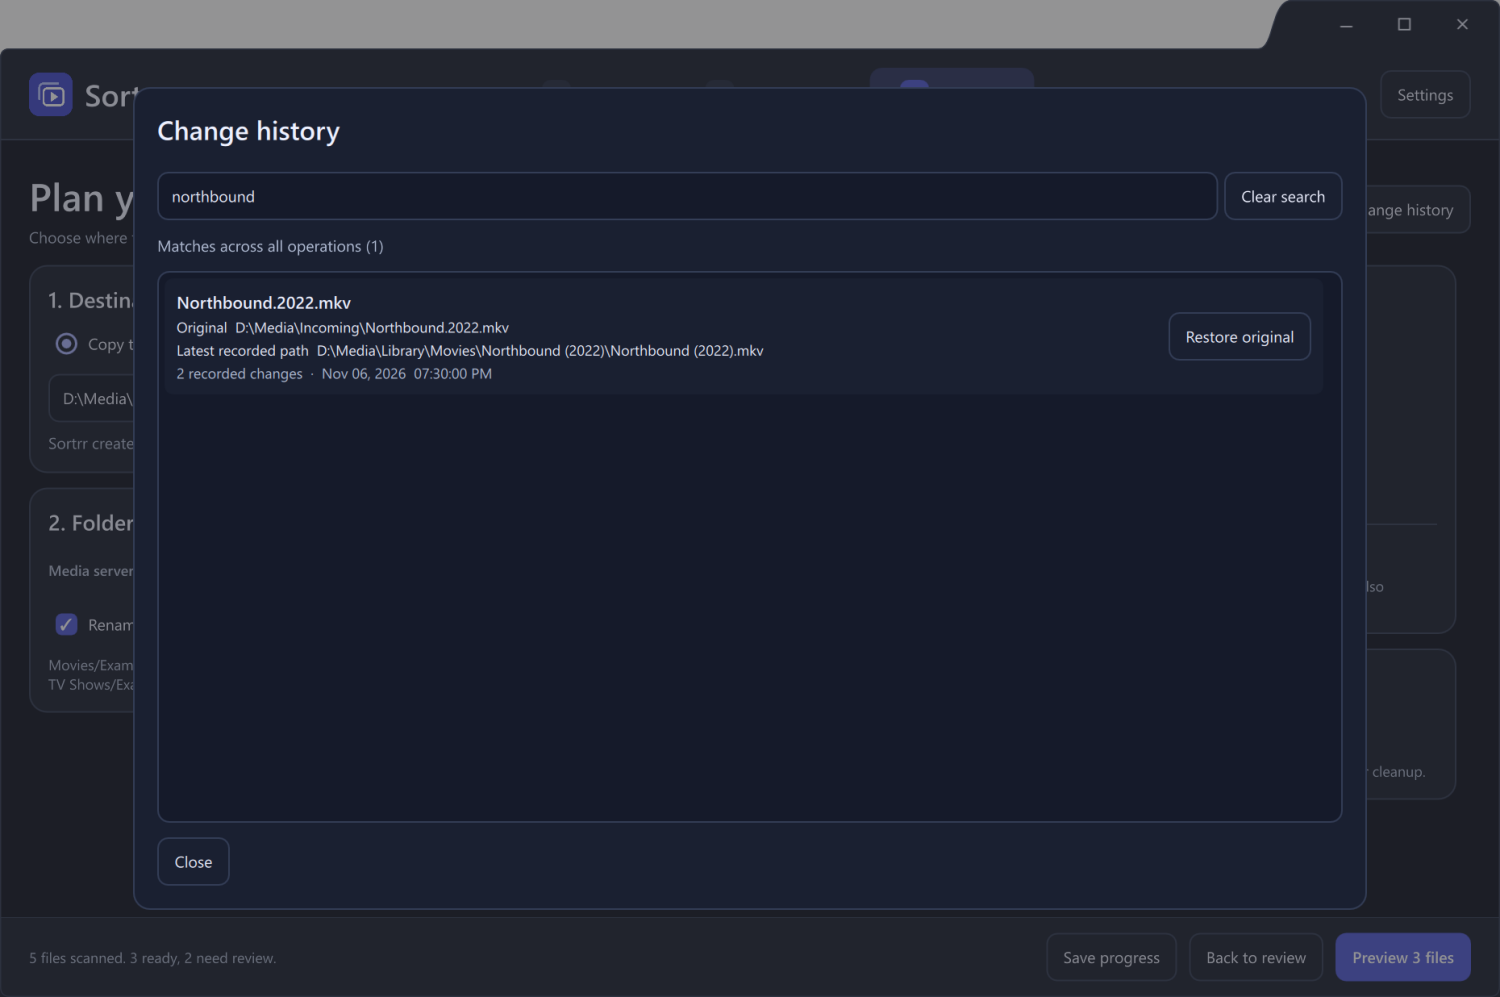
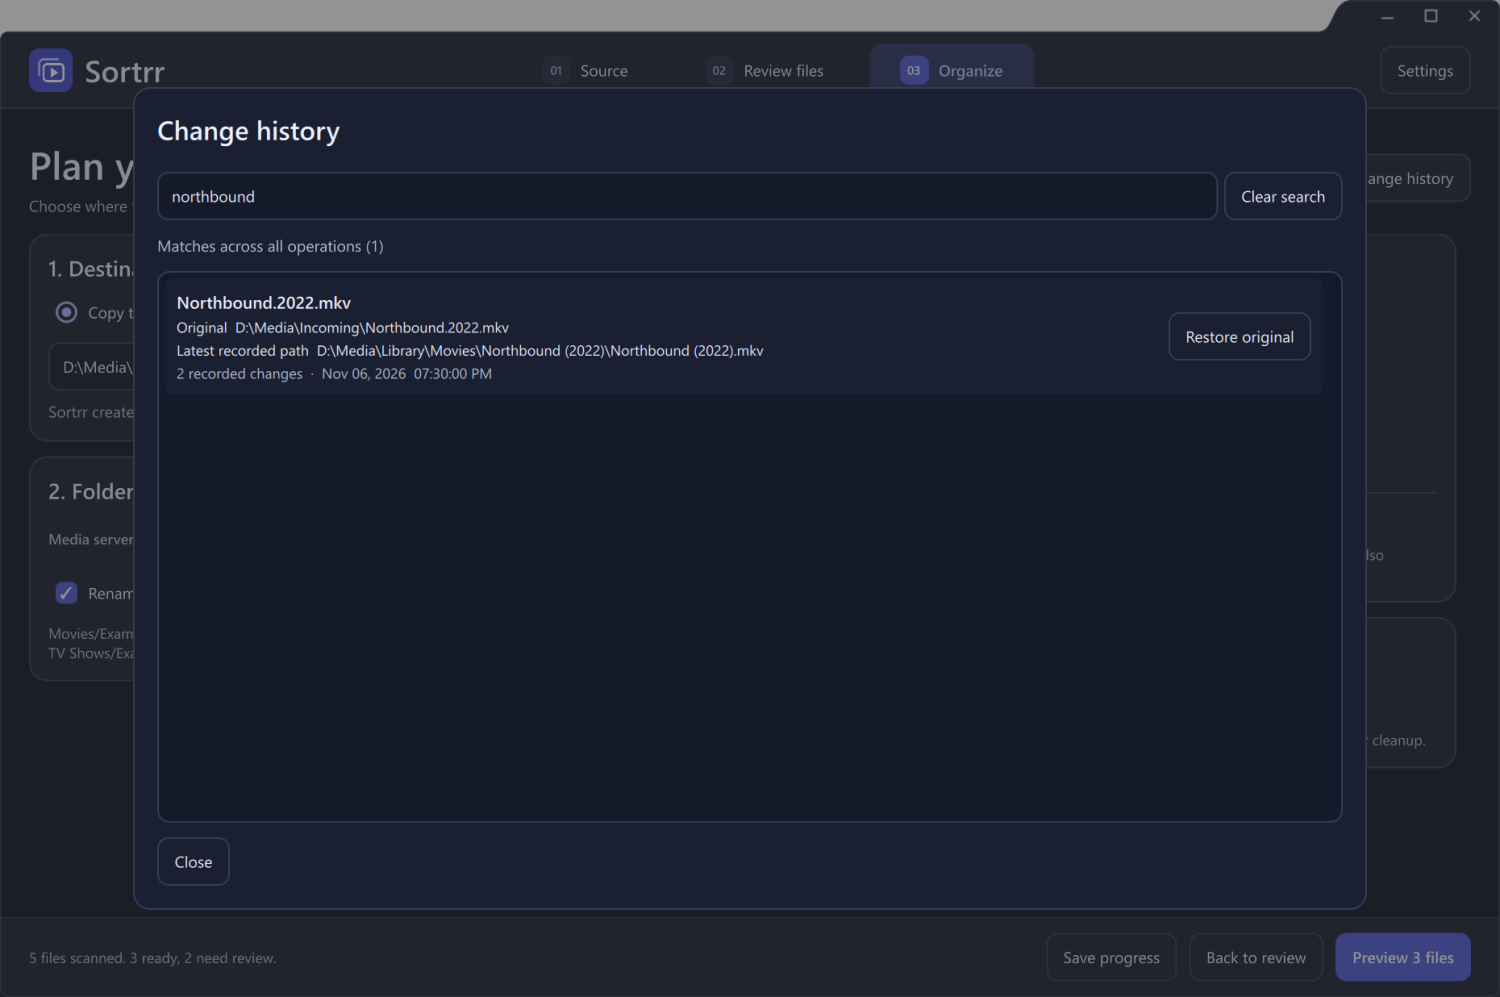
Refine compact caption tab and antialiased window edges

diff --git a/ui/SettingsWindow.qml b/ui/SettingsWindow.qml
@@ -54,7 +54,7 @@ ApplicationWindow {
 
     Rectangle {
         anchors.left: parent.left; anchors.right: parent.right; anchors.bottom: parent.bottom
-        anchors.top: parent.top; anchors.topMargin: 48
+        anchors.top: parent.top; anchors.topMargin: 34
         color: Theme.canvas
         radius: 8
         z: -1
@@ -68,7 +68,7 @@ ApplicationWindow {
             id: settingsChrome
             objectName: "settingsTitleBar"
             Layout.fillWidth: true
-            implicitHeight: 128
+            implicitHeight: 98
             targetWindow: settings
             allowMinimize: false
             allowMaximize: false
@@ -185,7 +185,7 @@ ApplicationWindow {
                         }
                         ActionButton {
                             objectName: "checkUpdatesButton"
-                            text: settings.update.status === "checking" ? "Checkingâ€¦" : "Check for updates"
+                            text: settings.update.status === "checking" ? "CheckingÃ¢â‚¬Â¦" : "Check for updates"
                             enabled: !settings.backend.state.busy && !settings.updating
                             onClicked: settings.backend.checkForUpdates()
                         }
@@ -230,7 +230,7 @@ ApplicationWindow {
                         SettingTitle { text: "Cache storage" }
                         Label {
                             objectName: "cacheSizeText"
-                            text: settings.cache.measuring ? "Calculatingâ€¦" : settings.cache.size
+                            text: settings.cache.measuring ? "CalculatingÃ¢â‚¬Â¦" : settings.cache.size
                             color: Theme.ink; font.pixelSize: 16; font.weight: Font.DemiBold
                         }
                         ActionButton {
@@ -252,7 +252,7 @@ ApplicationWindow {
                         Layout.fillWidth: true; spacing: 8
                         ActionButton {
                             objectName: "changeCacheDirectoryButton"
-                            text: settings.cache.moving ? "Moving cacheâ€¦" : "Change folder"
+                            text: settings.cache.moving ? "Moving cacheÃ¢â‚¬Â¦" : "Change folder"
                             enabled: !settings.backend.state.busy
                             onClicked: settings.backend.chooseCacheDirectory()
                         }

diff --git a/ui/TitleBar.qml b/ui/TitleBar.qml
@@ -11,13 +11,14 @@ Item {
     property bool allowMaximize: true
     property bool closeEnabled: true
     readonly property bool maximized: targetWindow.visibility === Window.Maximized
-    property int tabHeight: 40
-    readonly property int tabWidth: windowButtons.width + 40
-    implicitHeight: 116
+    property int tabHeight: 26
+    readonly property int tabWidth: windowButtons.width + 26
+    implicitHeight: 90
 
     onTabWidthChanged: headerSurface.requestPaint()
     Canvas {
         id: headerSurface
+        antialiasing: true
         anchors.fill: parent
         onWidthChanged: requestPaint()
         onHeightChanged: requestPaint()
@@ -82,13 +83,13 @@ Item {
     component WindowButton: Button {
         id: control
         required property string windowAction
-        implicitWidth: 46
-        implicitHeight: 30
+        implicitWidth: 34
+        implicitHeight: 24
         hoverEnabled: true
         padding: 0
         Accessible.name: text
         background: Rectangle {
-            radius: 6
+            radius: 4
             color: control.hovered || control.down
                 ? control.windowAction === "close" ? (control.down ? "#ad2939" : "#c43c4b") : Theme.raised
                 : "transparent"
@@ -141,9 +142,9 @@ Item {
 
     Row {
         id: windowButtons
-        anchors.right: parent.right; anchors.rightMargin: 8
-        anchors.top: parent.top; anchors.topMargin: 5
-        height: 30
+        anchors.right: parent.right; anchors.rightMargin: 4
+        anchors.top: parent.top; anchors.topMargin: 1
+        height: 24
         spacing: 2
         WindowButton {
             objectName: "windowMinimizeButton"

diff --git a/ui/Main.qml b/ui/Main.qml
@@ -149,7 +149,7 @@ ApplicationWindow {
 
     Rectangle {
         anchors.left: parent.left; anchors.right: parent.right; anchors.bottom: parent.bottom
-        anchors.top: parent.top; anchors.topMargin: 48
+        anchors.top: parent.top; anchors.topMargin: 34
         color: Theme.canvas
         radius: 8
         z: -1
@@ -162,7 +162,7 @@ ApplicationWindow {
             id: mainChrome
             objectName: "mainTitleBar"
             Layout.fillWidth: true
-            implicitHeight: 116
+            implicitHeight: 90
             targetWindow: window
             headerContent: RowLayout {
                 anchors.fill: parent; anchors.leftMargin: 24; anchors.rightMargin: 24; spacing: 12

diff --git a/ui/WindowFrame.qml b/ui/WindowFrame.qml
@@ -13,8 +13,8 @@ Item {
     readonly property bool resizable: targetWindow.visibility !== Window.Maximized
         && targetWindow.visibility !== Window.FullScreen
 
-    property real tabWidth: 182
-    property real tabHeight: 40
+    property real tabWidth: 132
+    property real tabHeight: 26
     WindowShape {
         targetWindow: frame.targetWindow
         tabWidth: frame.tabWidth
@@ -22,6 +22,7 @@ Item {
     }
     Canvas {
         id: outline
+        antialiasing: true
         anchors.fill: parent
         onWidthChanged: requestPaint()
         onHeightChanged: requestPaint()

diff --git a/window_chrome.py b/window_chrome.py
@@ -1,6 +1,6 @@
 """Native hit-test region for Sortrr's folder-shaped windows."""
 from PySide6.QtCore import QObject, Property, Signal
-from PySide6.QtGui import QPainterPath, QRegion
+from PySide6.QtGui import QPainterPath, QPainterPathStroker, QRegion
 from PySide6.QtQml import QmlElement
 
 QML_IMPORT_NAME = "Sortrr.Native"
@@ -34,16 +34,20 @@ class WindowShape(QObject):
     def __init__(self, parent=None):
         super().__init__(parent)
         self._window = None
-        self._tab_width = 184.0
-        self._tab_height = 40.0
+        self._tab_width = 132.0
+        self._tab_height = 26.0
 
     def update_mask(self):
         if self._window is not None:
             w, h = self._window.width(), self._window.height()
             if w > 0 and h > 0:
-                self._window.setMask(QRegion(folder_path(
-                    w, h, self._tab_width, self._tab_height
-                ).toFillPolygon().toPolygon()))
+                path = folder_path(w, h, self._tab_width, self._tab_height)
+                # A native region has binary edges. Keep it just outside the
+                # painted contour so it cannot clip the antialiased pixels.
+                padding = QPainterPathStroker()
+                padding.setWidth(4.0)
+                hit_path = path.united(padding.createStroke(path))
+                self._window.setMask(QRegion(hit_path.toFillPolygon().toPolygon()))
 
     def get_window(self):
         return self._window

diff --git a/packaging/release-notes-rc3.md b/packaging/release-notes-rc3.md
@@ -2,7 +2,7 @@
 
 Sortrr is still in testing. Try a small set of test files or a backed-up library before moving, renaming, or cleaning up media.
 
-- Added a folder-shaped window with its own raised tab for window controls, a transparent cutout, and a full-width app header below.
+- Added a folder-shaped window with a compact, antialiased raised tab for window controls, a transparent cutout, and a full-width app header below.
 - Added a Check for updates button in Settings and automatic installation of verified updates, with rollback if the new app cannot start.
 - Added cache size reporting and a native folder picker to move the cache. Settings, saved matches, review progress, and change history stay in the app data folder.
 - Included cached previews when clearing the cache.
